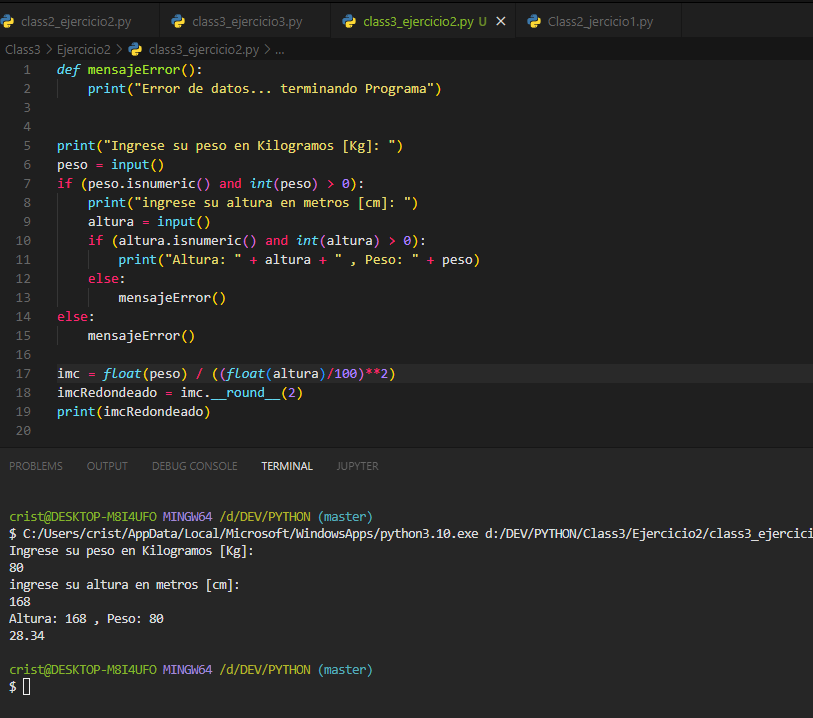
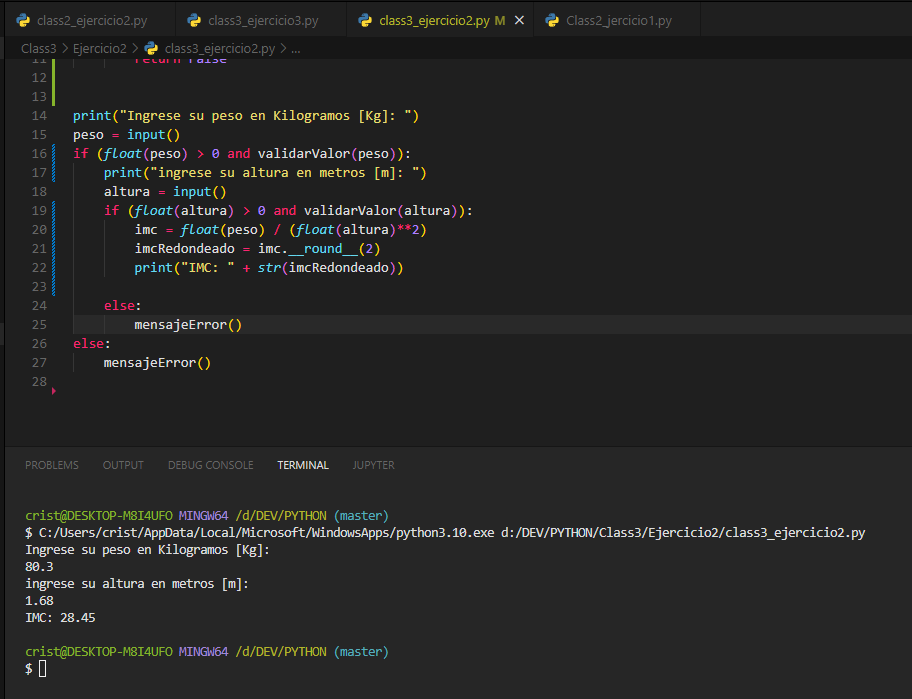
Class3_ejercicio2

Changed region(s): [[0.0, 0.0, 0.7995, 0.6009], [0.0, 0.6309, 1.0, 0.9614], [0.5228, 0.3605, 0.5843, 0.3906]]

diff --git a/Class3/Ejercicio2/class3_ejercicio2.py b/Class3/Ejercicio2/class3_ejercicio2.py
@@ -1,19 +1,27 @@
+
 def mensajeError():
     print("Error de datos... terminando Programa")
 
 
+def validarValor(valor):
+    try:
+        float(valor)
+        return True
+    except:
+        return False
+
+
 print("Ingrese su peso en Kilogramos [Kg]: ")
 peso = input()
-if (peso.isnumeric() and int(peso) > 0):
-    print("ingrese su altura en metros [cm]: ")
+if (float(peso) > 0 and validarValor(peso)):
+    print("ingrese su altura en metros [m]: ")
     altura = input()
-    if (altura.isnumeric() and int(altura) > 0):
-        print("Altura: " + altura + " , Peso: " + peso)
+    if (float(altura) > 0 and validarValor(altura)):
+        imc = float(peso) / (float(altura)**2)
+        imcRedondeado = imc.__round__(2)
+        print("IMC: " + str(imcRedondeado))
+
     else:
         mensajeError()
 else:
     mensajeError()
-
-imc = float(peso) / ((float(altura)/100)**2)
-imcRedondeado = imc.__round__(2)
-print(imcRedondeado)
